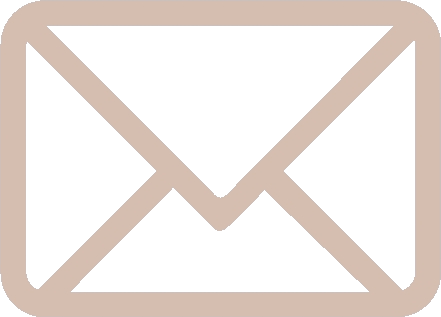
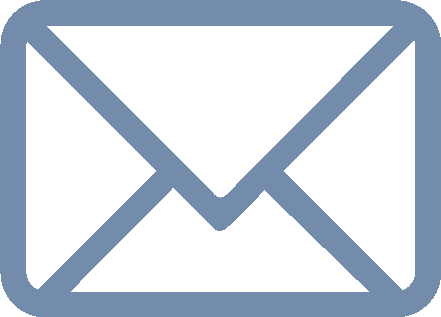
changed coloring of the page

diff --git a/src/app/globals.css b/src/app/globals.css
@@ -6,8 +6,8 @@ body {
   justify-content: center;
   align-items: center;
   height: 100vh;
-  background-color: #EDEDE9; /* Light Gray Background */
-  font-family: 'Comic Sans MS', cursive; /* Handwritten style */
+  background-color: #F0EBD8; /* Light Gray Background */
+  font-family: 'GeistSans'; /* Handwritten style */
 
   cursor: none;
 }
@@ -39,7 +39,8 @@ a:link {
 .j-symbol, .l-symbol {
   font-size: 12vw; /* Use viewport width for font size instead of fixed pixels for responsiveness */
   position: relative; /* Make J and L relative so that 'ustin' and 'e' can be positioned next to them */
-  color: #D5BDAF;
+  color: #748CAB;
+  font-family: 'Lucida Handwriting'; /* Handwritten style */
 }
 
 /* Extend top of J to meet L (π-like symbol) */
@@ -49,16 +50,16 @@ a:link {
   position: absolute;
 
   /* Rounded edges for smoother appearance */
-  width: calc(100% + 7vw); /* Use vw (viewport width) instead of fixed pixels for responsiveness */
-  height: 1.7vw; /* Adjust thickness based on viewport width */
+  width: calc(100% + 9vw); /* Use vw (viewport width) instead of fixed pixels for responsiveness */
+  height: 1.8vw; /* Adjust thickness based on viewport width */
 
-  background-color: #D5BDAF; /* Same color as J */
+  background-color: #748CAB; /* Same color as J */
 
   /* Move bar down so it touches both J and L */
-  top: calc(4.1vw); /* Adjusted position based on viewport width */
+  top: calc(2.5vw); /* Adjusted position based on viewport width */
 
   /* Add rounded corners for smoothness */
-  border-radius: .75vw;
+  border-radius: 10vw;
 
   /* Initial state with full width */
   transform-origin: center;
@@ -69,8 +70,8 @@ a:link {
 .ustin-text, .e-text {
     opacity :0;
 
-    color:#D5BDAF;
-    font-size :4vw; /* Ensure font size matches J and L using viewport width */
+    color:#748CAB;
+    font-size :3vw; /* Ensure font size matches J and L using viewport width */
 
     position :absolute;
 }
@@ -139,7 +140,7 @@ a:link {
     transform-origin: top left; /* Set origin for scaling from top-left corner */
 
     transform:
-        translate(-2.4vw, -50vh) scale(.3); /* Move towards top-left while shrinking */
+        translate(-2.4vw, -49vh) scale(.3); /* Move towards top-left while shrinking */
 
     transition:
         transform ease-in-out .4s; /* Smoothly move and scale at the same time over .8 seconds */
@@ -183,7 +184,7 @@ a:link {
 /* Individual Button Styling */
 .nav-button {
   background-color: transparent; /* Transparent background as requested */
-  color:#D5BDAF; /* Use muted brown color from palette */
+  color:#748CAB; 
   font-size: calc(2vh);
   padding-bottom: calc(.25vh);
   border:none;
@@ -219,19 +220,20 @@ a:link {
 .container {
   display: flex;
   flex-direction: column; /* Stack elements vertically */
-  justify-content: center; /* Center vertically */
+  justify-content: flex-start; /* Center vertically */
   align-items: center; /* Center horizontally */
-  height: 100vh; /* Full viewport height */
+  height: 80vh; /* Full viewport height */
+  position: absolute;
 }
 
 /* Title Styling */
 .title {
-  font-size: calc(3rem + 2vw);
-  color: #D5BDAF; /* Muted Brown from palette */
+  font-size: calc(4.5vw);
+  color: #3E5C76; /* Muted Brown from palette */
 }
 
 /* Subheading Styling */
 .subheading {
-  font-size: calc(1.5rem + 1vw);
-  color: #E3D5CA; /* Light Tan from palette */
+  font-size: calc(2.78vw);
+  color: #748CAB; /* Light Tan from palette */
 }

diff --git a/src/app/layout.tsx b/src/app/layout.tsx
@@ -1,4 +1,5 @@
 import "./globals.css";
+import { GeistSans } from 'geist/font/sans';
 import StickyCursor from '../components/stickyCursor';
 import RegCursor from '../components/regCursor';
 
@@ -15,7 +16,7 @@ export default function RootLayout({
 
   return (
 
-    <html lang="en">
+    <html lang="en" className={GeistSans.className}>
       <body>
         <StickyCursor/>
         <RegCursor/>

diff --git a/src/app/page.tsx b/src/app/page.tsx
@@ -77,7 +77,7 @@ const Page = () => {
             animate={{ opacity: 1, y: 0 }} // Animate into view
             transition={{ duration: 1, ease: "easeOut" }} // Smooth animation
           >
-            Welcome to My Portfolio
+            Hi, I'm Justin.
           </motion.h1>
 
           {/* Subheading Animation */}

diff --git a/src/components/regCursor/style.module.scss b/src/components/regCursor/style.module.scss
@@ -2,7 +2,7 @@
     position: fixed;
     width: 15px;
     height: 15px;
-    background-color: #D5BDAF;
+    background-color: #1D2D44;
     border-radius: 50%;
     pointer-events: none;
     opacity: 75%;

diff --git a/src/components/stickyCursor/style.module.scss b/src/components/stickyCursor/style.module.scss
@@ -2,7 +2,7 @@
     position: fixed;
     width: 30px;
     height: 30px;
-    background-color: #D5BDAF;
+    background-color: #1D2D44;
     border-radius: 50%;
     pointer-events: none;
     opacity:50%;
